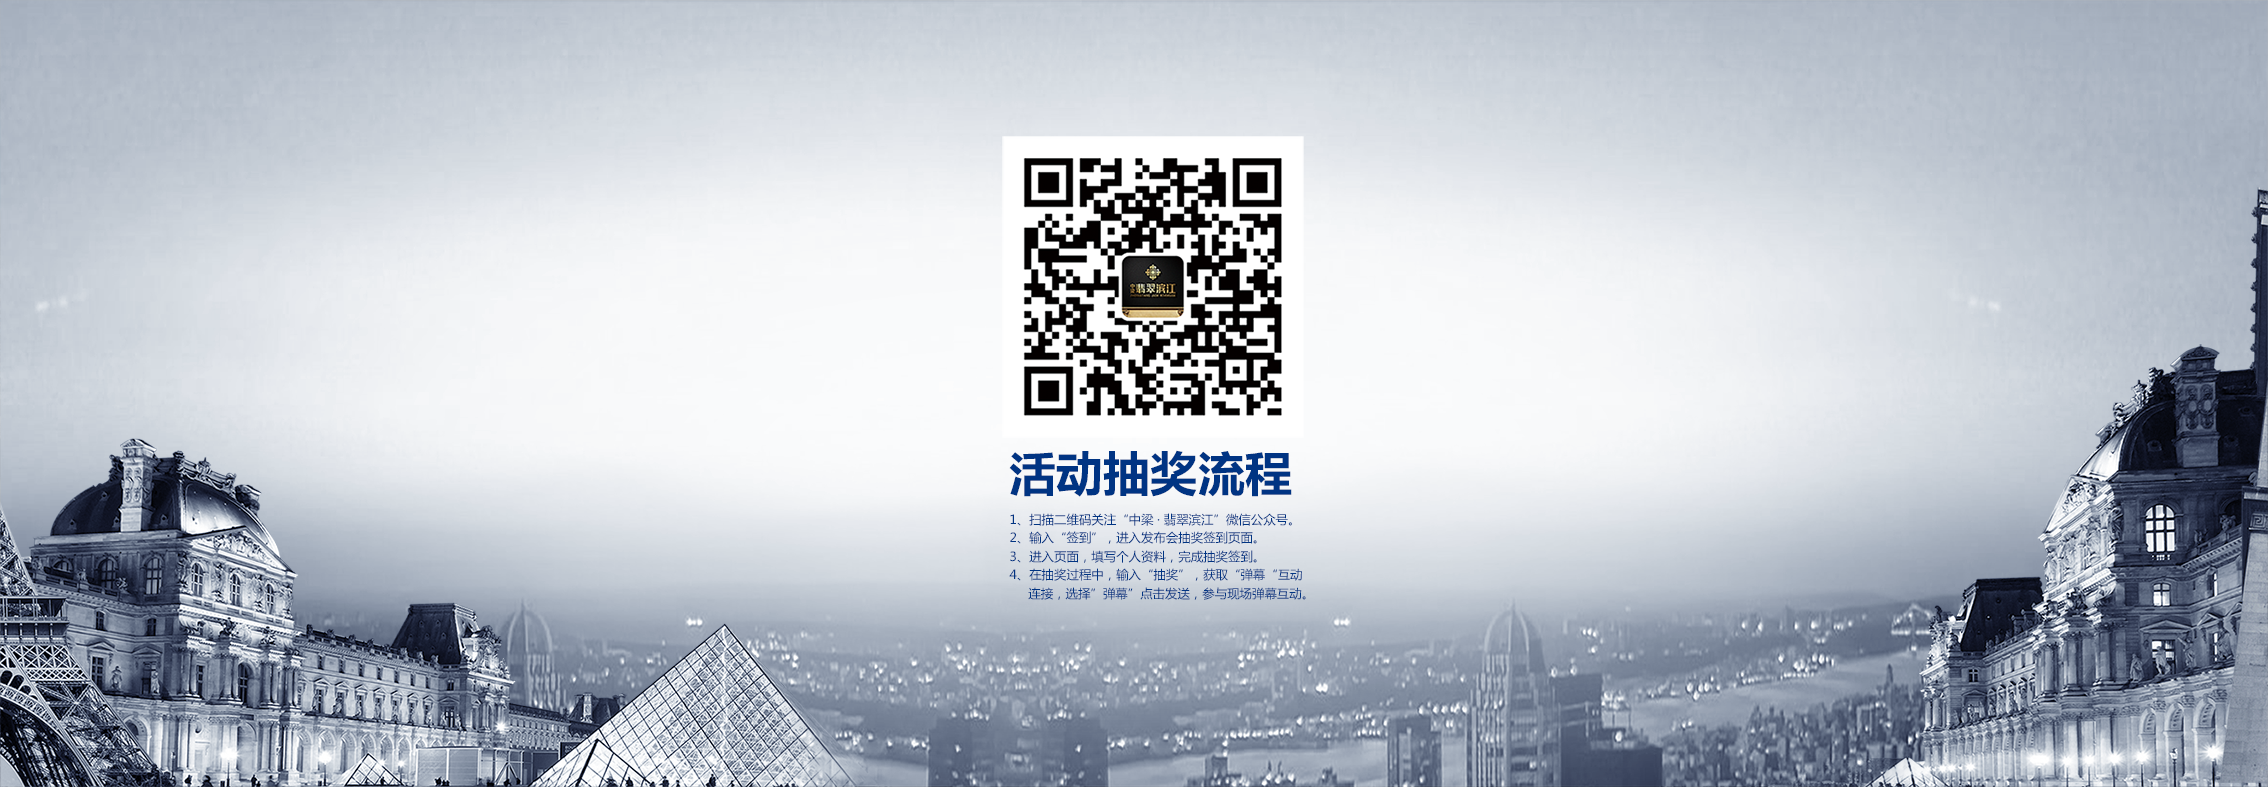
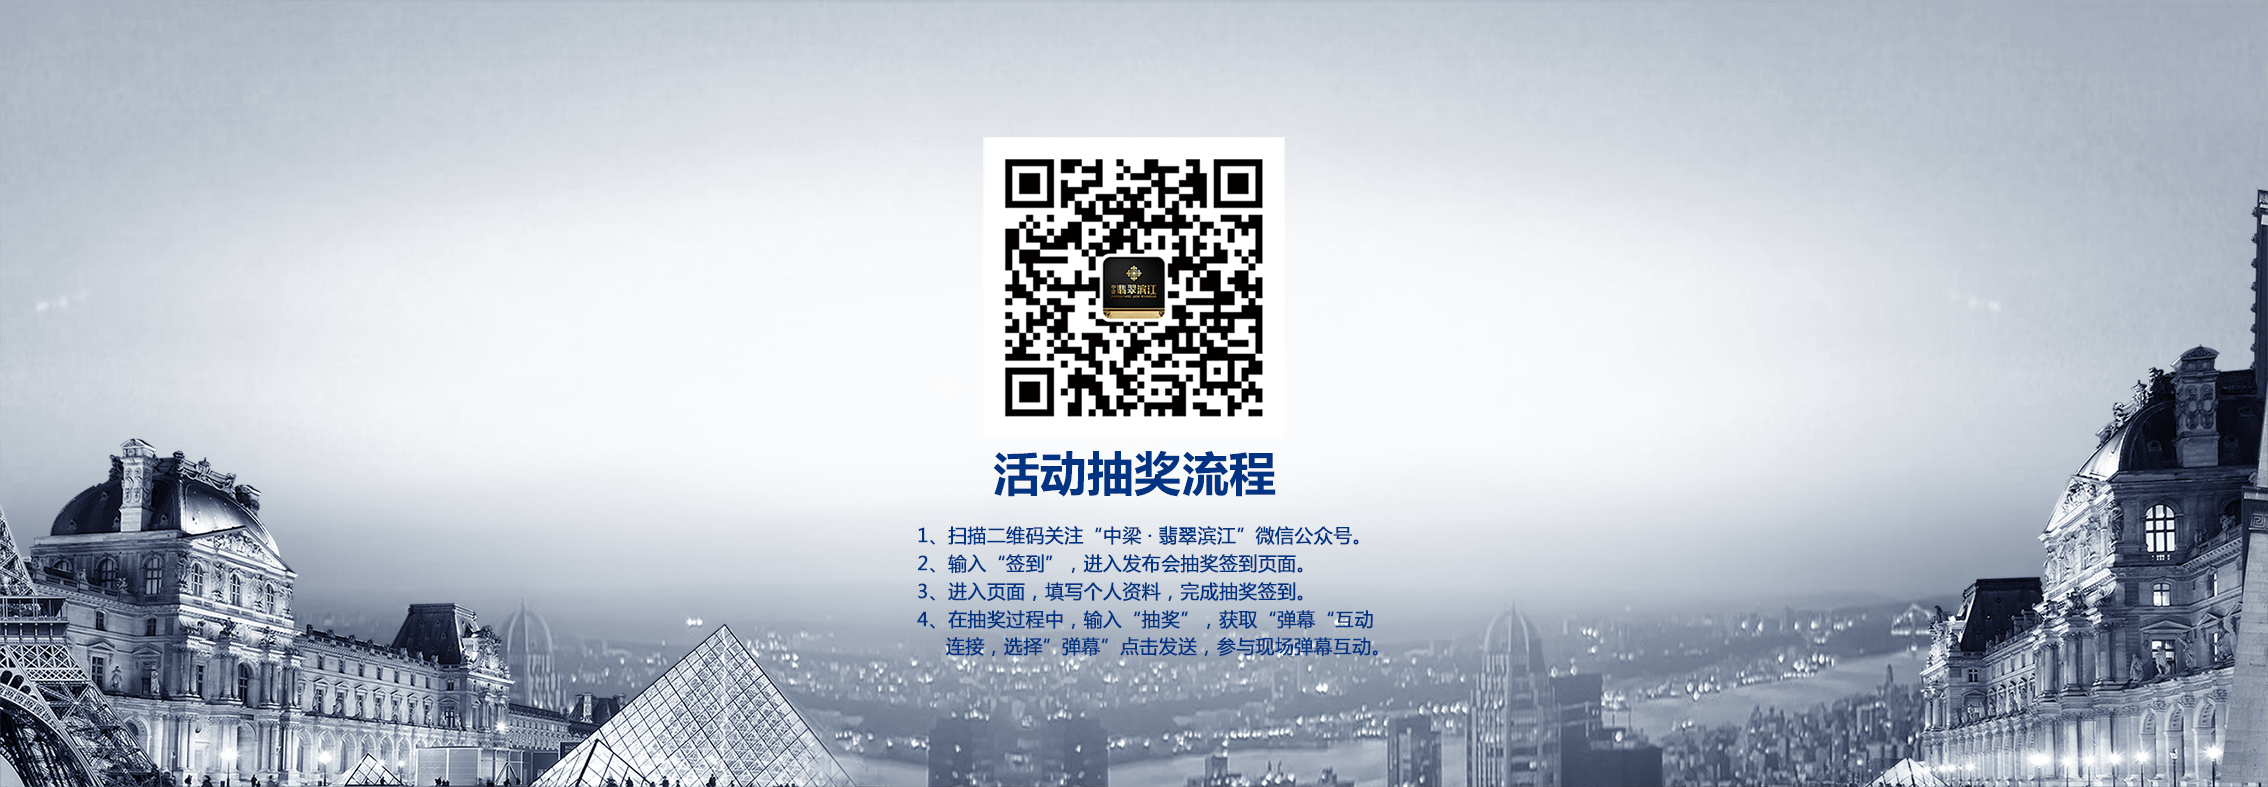
modify image 4

Changed region(s): [[0.4012, 0.183, 0.6173, 0.8539]]

diff --git a/public/zhongL/barrage/css/sign.css b/public/zhongL/barrage/css/sign.css
@@ -8,11 +8,11 @@ body{
     height: 65%;
 }
 .left{
-    margin-left: 17%;
+    margin-left: 15%;
     float: left;
 }
 .right{
-    margin-right: 12%;
+    margin-right: 15%;
     float: right;
 }
 .user_photo{
